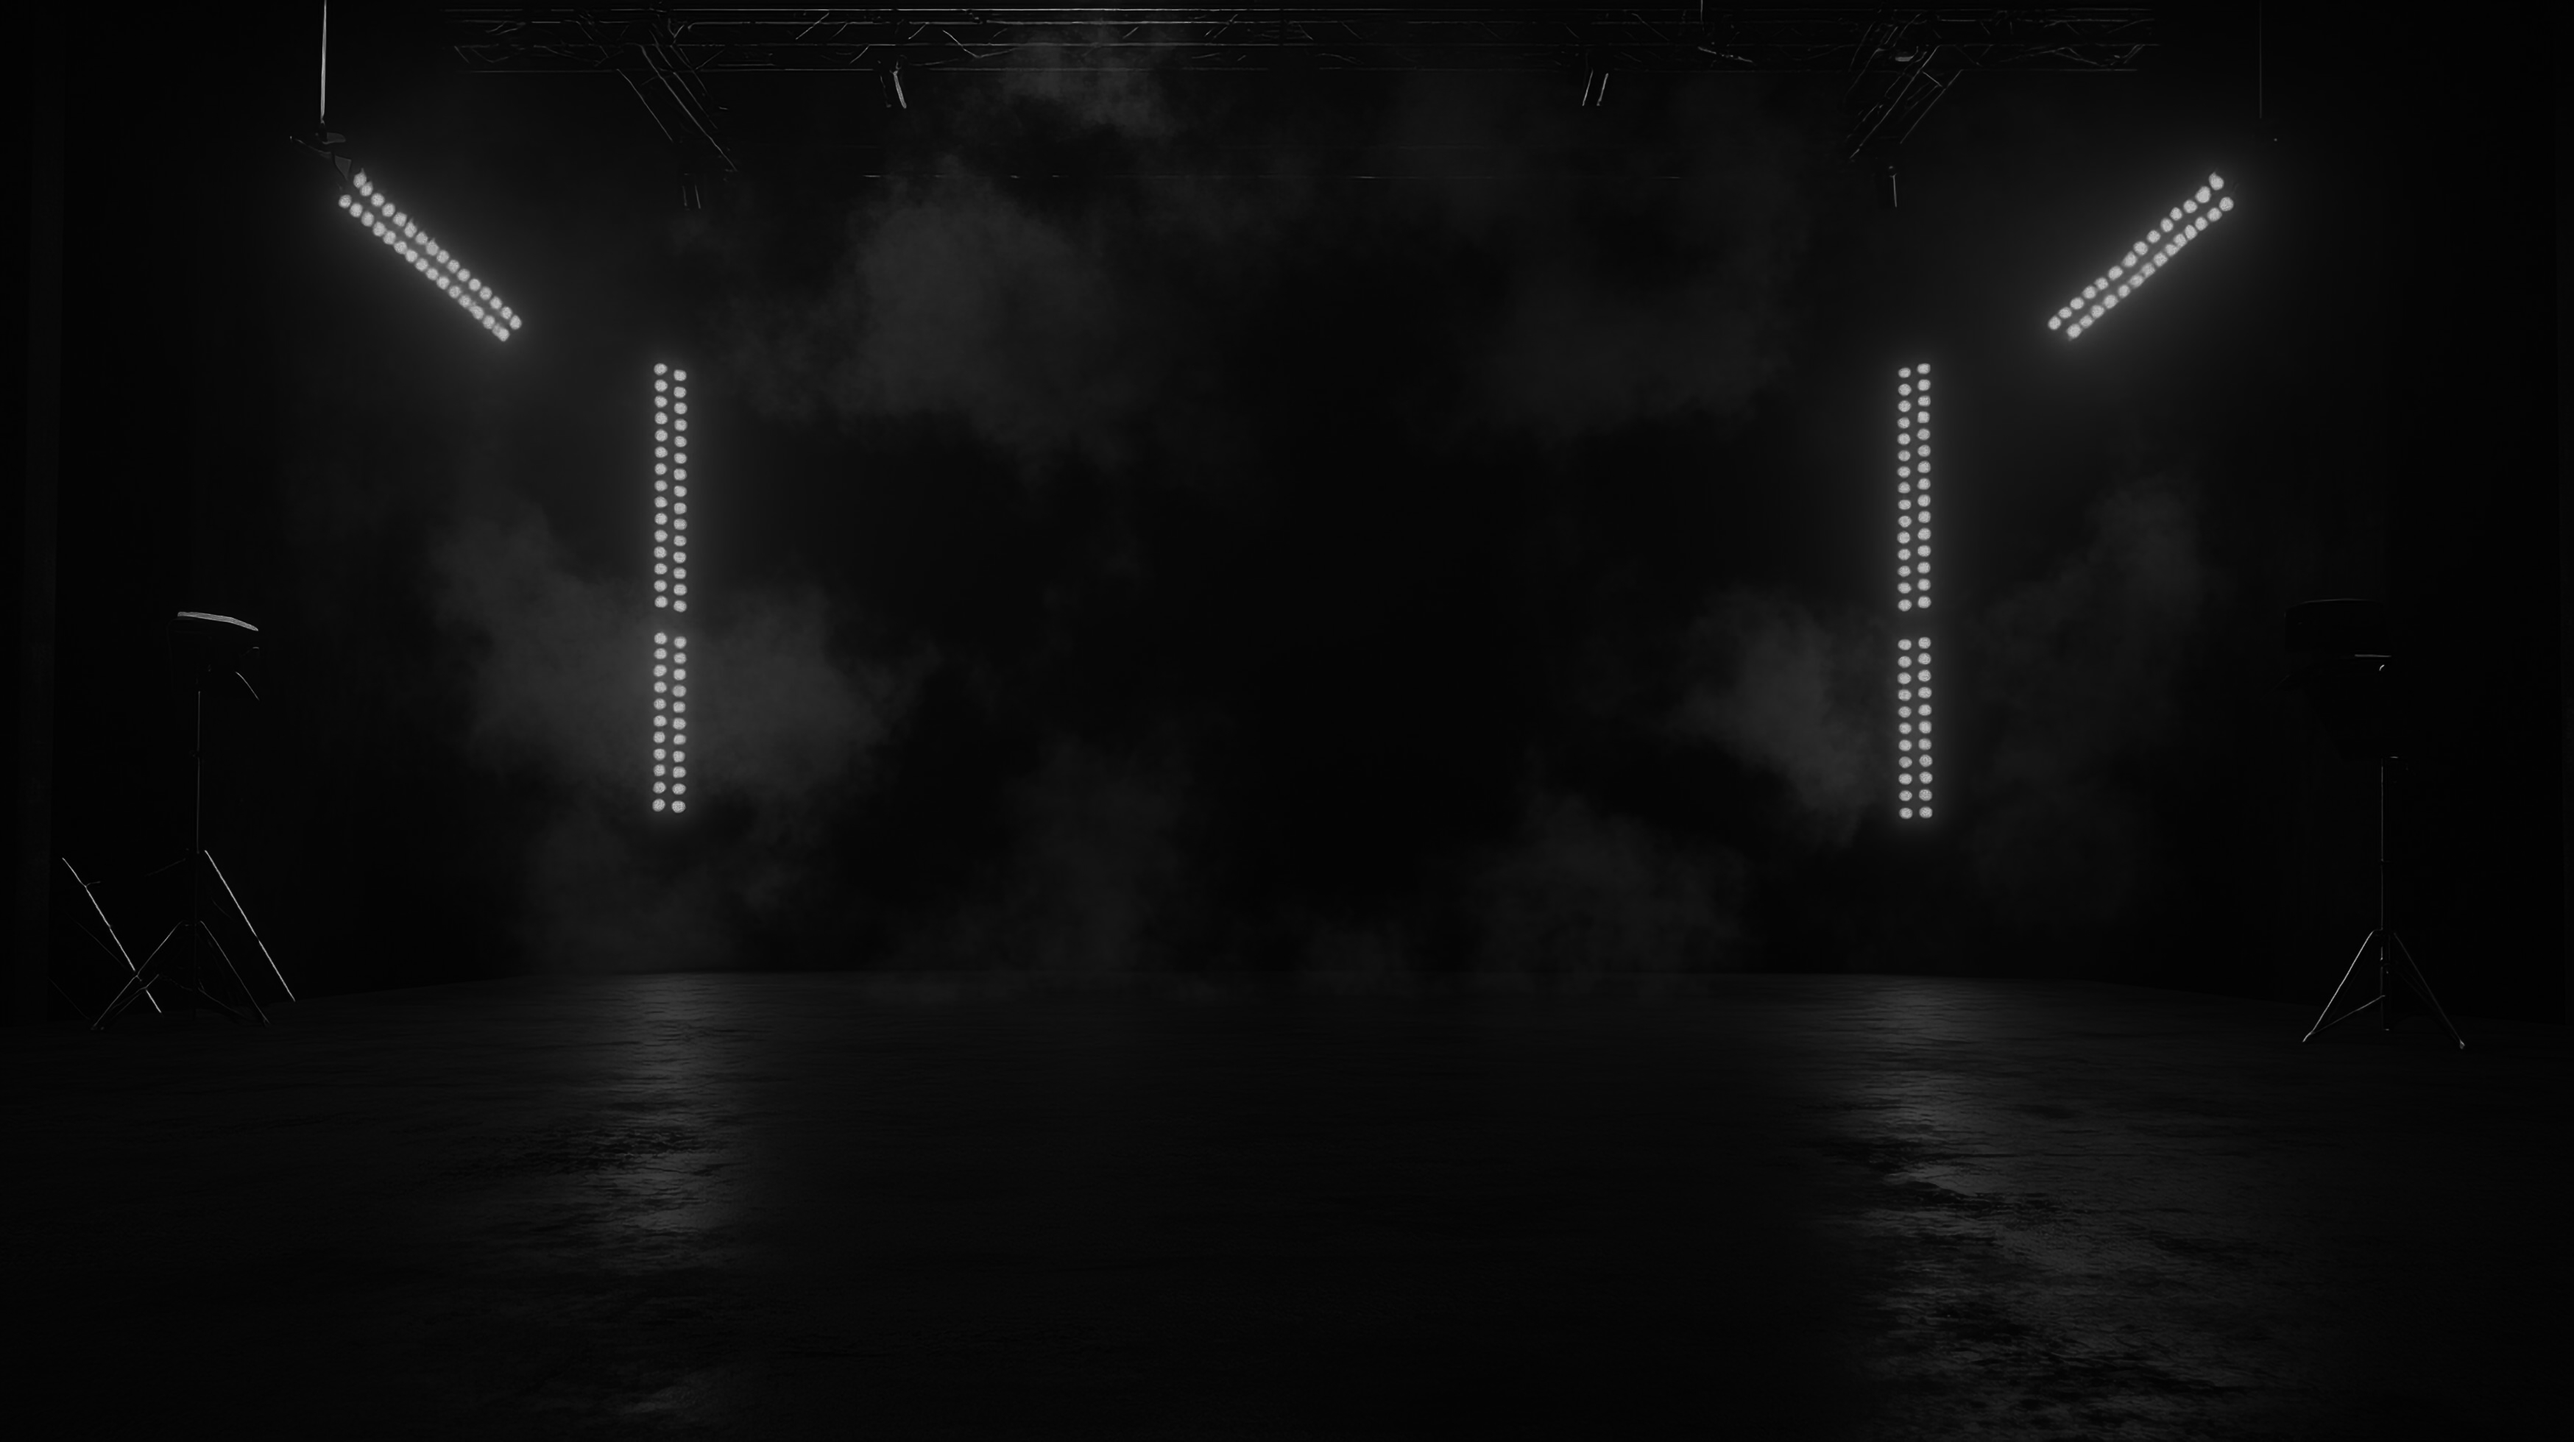
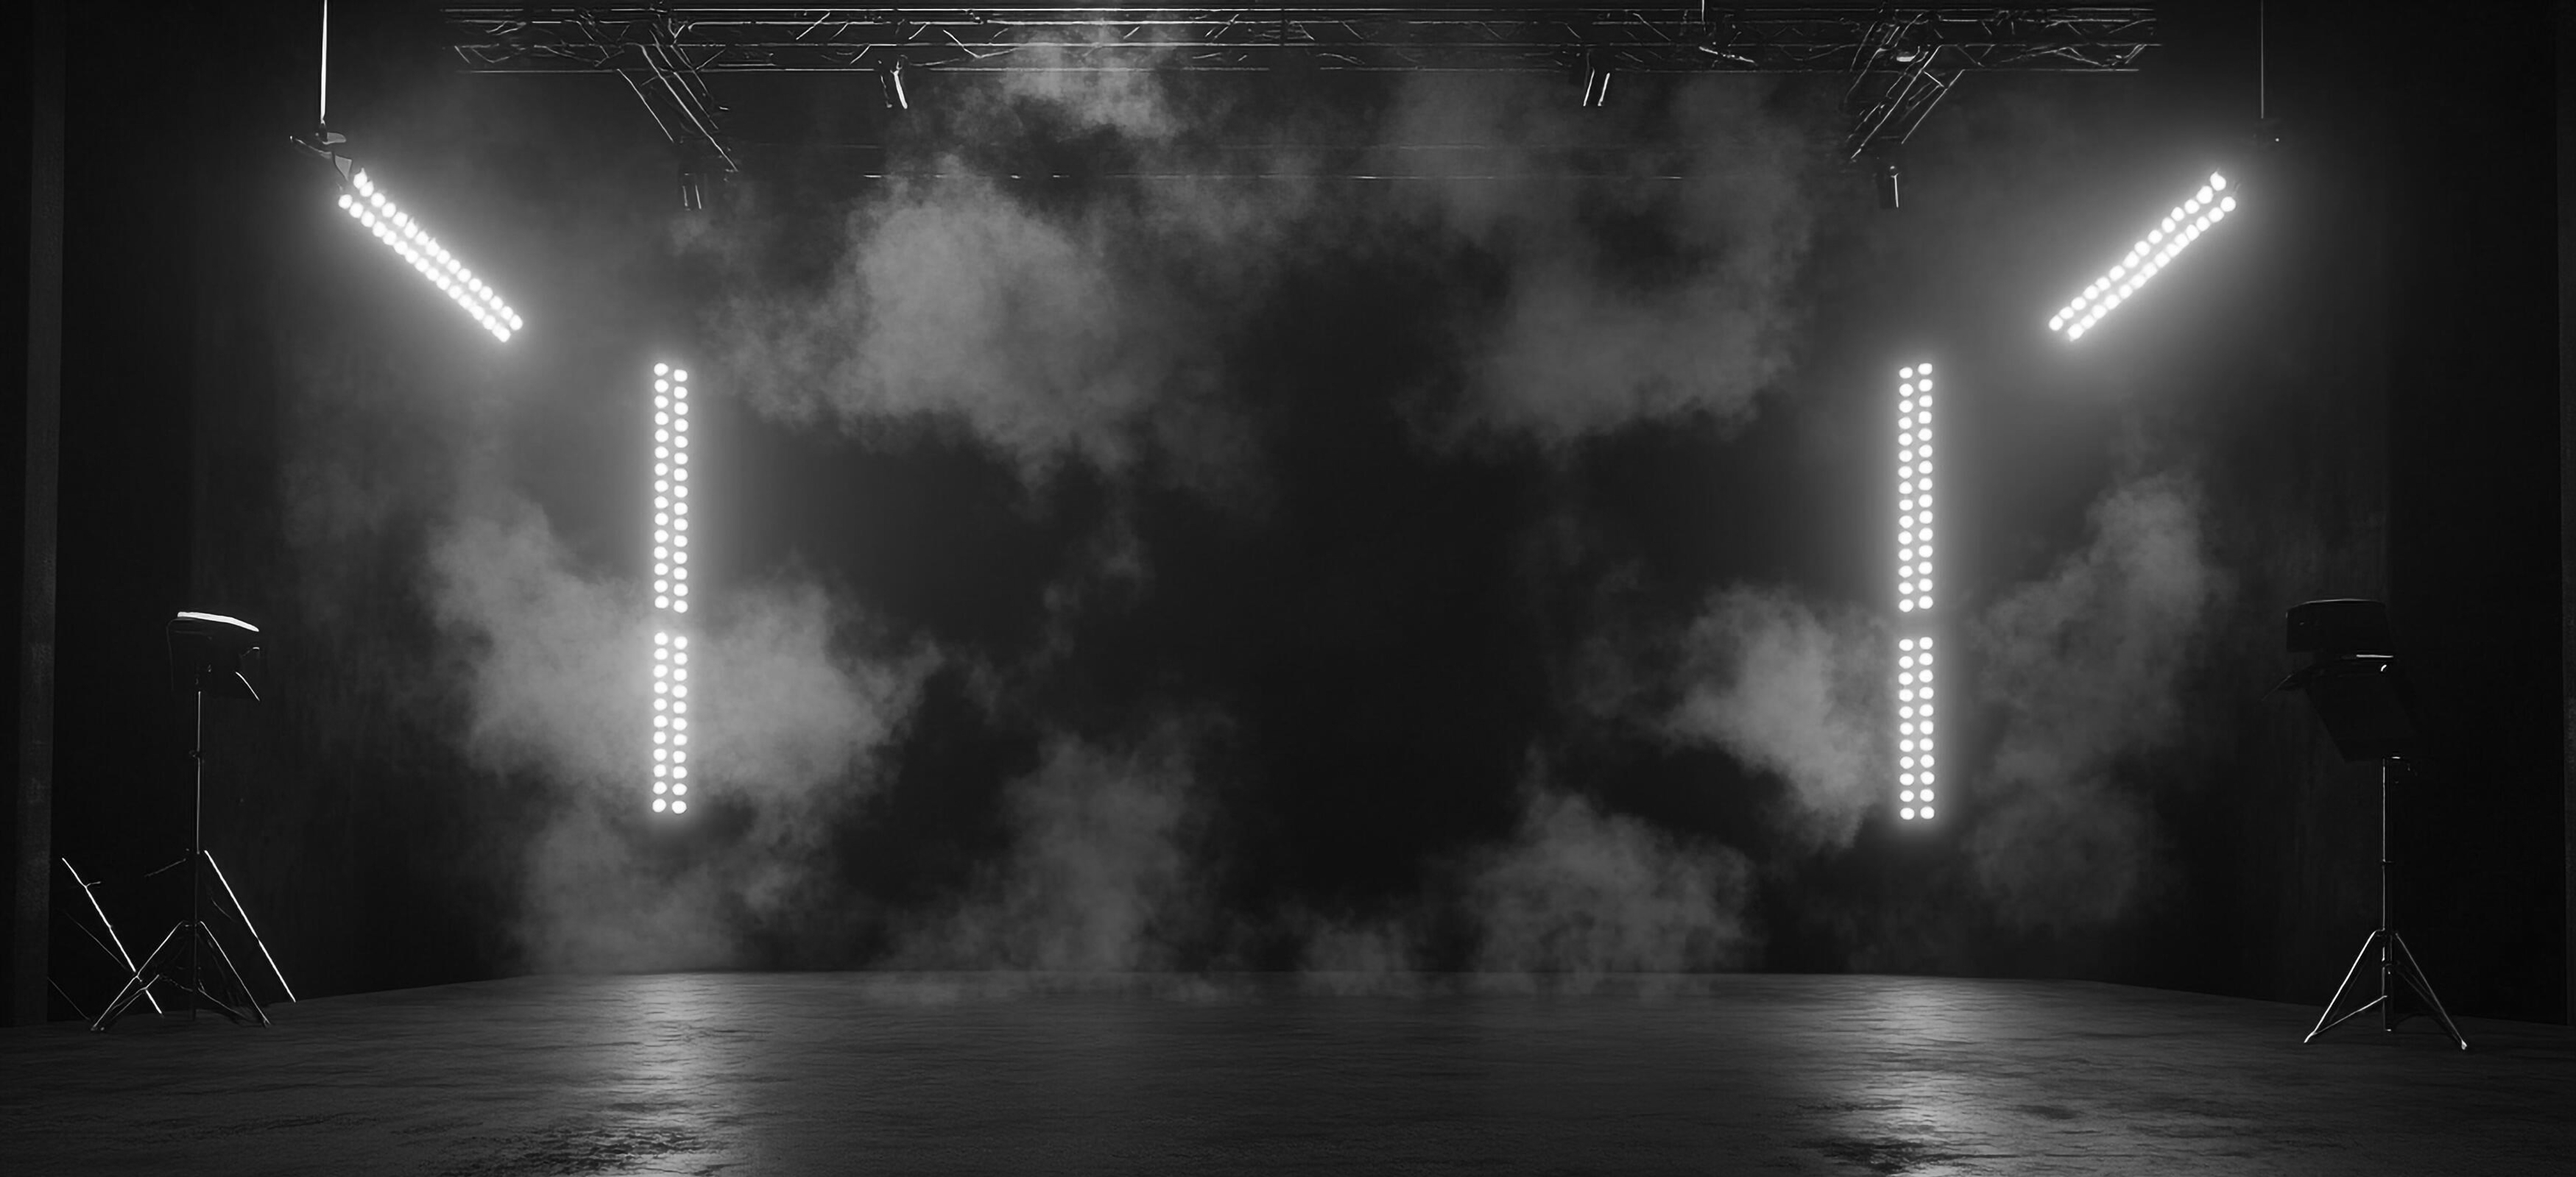
Modifying the text, descriptions, and other website content

diff --git a/components/About.tsx b/components/About.tsx
@@ -18,27 +18,27 @@ const TRACKS: Track[] = [
   {
     title: 'О нас',
     description:
-      'Мы собираемся в лучших локациях города, чтобы разделить живой звук, изысканный ужин и атмосферу абсолютного доверия. Здесь каждый гость — не случайный человек. Мы в ответе за тех, кого пригласили.',
+      'RockSession — круг единомышленников, для которых рок стал частью жизни. Мы встречаемся, чтобы разделить живой звук, искренние разговоры и чувство общности.',
   },
   {
     title: 'Премиум',
     description:
-      'Каждая встреча клуба — это закрытый формат с продуманной программой, где сервис, кухня и звук работают на один результат — ваше впечатление.',
+      'Каждая встреча — закрытое событие с безупречно продуманной программой. Свет, звук и сервис работают на то, чтобы впечатление осталось с вами надолго.',
   },
   {
-    title: 'Преимущества',
+    title: 'Формат',
     description:
-      'Живой звук без фонограмм, камерная аудитория и уют лучших ресторанов города. Никаких случайных людей — только гости по списку.',
+      'Живое исполнение без фонограмм, камерная аудитория и площадки, выбранные с особым вкусом. Никаких случайных лиц — только те, кого ждут.',
   },
   {
     title: 'Настроение',
     description:
-      'Мы создаём атмосферу, в которую хочется возвращаться: свет, музыка и люди складываются в один вечер, который хочется переслушать.',
+      'Атмосфера, в которую хочется возвращаться. Свет, музыка и люди создают вечер, который хочется пережить снова.',
   },
   {
-    title: 'Качество',
+    title: 'Звук',
     description:
-      'Профессиональные музыканты, отборные локации и внимание к каждой детали — от звука до сервировки. Для нас качество — не опция, а стандарт.',
+      'Профессиональные музыканты, безупречный звук и внимание к деталям. Всё продумано до мелочей — от первой ноты до финального аккорда.',
   },
 ];
 
@@ -240,7 +240,7 @@ export default function About() {
 const ABOUT_CSS = `
   .rsc-about {
     background: #060606;
-    padding: 110px 24px 130px;
+    padding: 110px 24px 50px;
     opacity: 0;
     transform: translateY(36px);
     transition: opacity 0.8s ease, transform 0.8s cubic-bezier(0.22, 0.8, 0.3, 1);

diff --git a/components/Partners.tsx b/components/Partners.tsx
@@ -186,20 +186,16 @@ export default function Partners() {
           {/* Заголовки блока */}
           <h2 className="rsc-partners__heading">Партнёры</h2>
           <p className="rsc-partners__subheading">
-            Давайте создавать историю вместе!
+            Пространство для сильных решений
           </p>
 
           {/* Текстовое описание */}
           <div className="rsc-partners__text">
             <p className="rsc-partners__lead">
-              Мы создаём события, о которых говорят. И открыты к сотрудничеству
-              с брендами, которые готовы мыслить шире стандартных интеграций.
+              RockSession открыт к сотрудничеству с брендами, которым близки ценности живого звука, культуры и внимания к деталям. Мы создаём закрытые вечера для избранной аудитории — и приглашаем вас стать частью этого пространства.
             </p>
             <p className="rsc-partners__body">
-              Хотите заявить о себе на самом ярком фестивале города? Мы
-              разработаем креативную концепцию под ваши задачи: от
-              нестандартных рекламных интеграций до самостоятельных событий
-              внутри фестиваля.
+              Предлагаем не стандартные интеграции, а продуманное партнёрство: от деликатного присутствия в атмосфере вечера до совместных проектов внутри клуба. Всё обсуждаем индивидуально.
             </p>
           </div>
 

diff --git a/components/Hero.tsx b/components/Hero.tsx
@@ -186,12 +186,11 @@ const HERO_CSS = `
     color: var(--accent, #00c3d0);
   }
 
-  /* Заголовок: уменьшен, начертание корректируется шрифтом Tablon,
-     запасной вариант сделан легче через font-weight и разрядку */
+  /* Заголовок */
   .rsc-hero__title {
     margin: 0 0 26px;
     font-family: var(--font-tablon), 'Arial', sans-serif;
-    font-size: clamp(40px, 6.5vw, 84px);
+    font-size: clamp(40px, 6.5vw, 72px);
     line-height: 1;
     font-weight: 600;
     letter-spacing: 0.03em;

diff --git a/components/Footer.tsx b/components/Footer.tsx
@@ -48,17 +48,7 @@ const SOCIAL_ICONS: Record<string, React.ReactNode> = {
     </svg>
   ),
   max: (
-    <svg viewBox="0 0 24 24" width="26" height="26" fill="currentColor" aria-hidden="true">
-      <circle cx="12" cy="12" r="10" />
-      <path
-        d="M7.5 9.5 12 14l4.5-4.5M7.5 13.5 12 18l4.5-4.5"
-        fill="none"
-        stroke="#060606"
-        strokeWidth="1.8"
-        strokeLinecap="round"
-        strokeLinejoin="round"
-      />
-    </svg>
+    <img src="/max.svg" alt="MAX" width={24} height={24} />
   ),
 };
 

diff --git a/components/Marquee.tsx b/components/Marquee.tsx
@@ -7,13 +7,14 @@
 
 /* Текст ленты */
 const ITEMS = [
-  'Ростов-на-Дону',
   'Живой звук',
-  'Рок',
-  'Без фонограмм',
-  'Блюз-рок',
   'Закрытый клуб',
-];
+  'Мировые хиты',
+  'Живые эмоции',
+  'Фотосъёмка',
+  'Проф. ведущий',
+  'Конкурсы и призы',
+];''
 
 /* Одна копия ленты:
    - элементы «◆  Текст» склеены двумя пробелами

diff --git a/components/JaggedDivider.tsx b/components/JaggedDivider.tsx
@@ -3,7 +3,7 @@
 // Вставляется автоматически между секциями на главной, в админке не управляется.
 
 /* Сколько вариантов линий лежит в public/dividers/ (1.svg, 2.svg, …) */
-const VARIANT_COUNT = 8;
+const VARIANT_COUNT = 3;
 
 export default function JaggedDivider({ index }: { index: number }) {
   /* Варианты чередуются по порядку: 1, 2, 3, 4, 5, 1, 2… */

diff --git a/components/Posters.tsx b/components/Posters.tsx
@@ -56,7 +56,7 @@ export default async function Posters() {
 const POSTERS_CSS = `
   .rsc-posters {
     background: #060606;
-    padding: 110px 24px 40px;
+    padding: 110px 24px 110px;
     overflow-x: clip; /* сдвиг билета при hover не расширяет страницу */
   }
 

diff --git a/components/Contacts.tsx b/components/Contacts.tsx
@@ -101,7 +101,7 @@ export default function Contacts() {
 const CONTACTS_CSS = `
   .rsc-contacts {
     background: #060606;
-    padding: 110px 24px 140px;
+    padding: 110px 24px 110px;
   }
 
   /* Каскадное появление при загрузке */

diff --git a/components/Gallery.tsx b/components/Gallery.tsx
@@ -170,7 +170,7 @@ export default function Gallery() {
 const GALLERY_CSS = `
   .rsc-gallery {
     background: #060606;
-    padding: 110px 24px 120px;
+    padding: 110px 24px 70px;
     overflow-x: clip;
   }
 

diff --git a/app/(site)/page.tsx b/app/(site)/page.tsx
@@ -36,7 +36,7 @@ const BLOCK_COMPONENTS: Record<string, React.ReactNode> = {
   posters: (
     <>
       <Posters />
-      <PastEvents />
+      {/* <PastEvents /> */}
     </>
   ),
   partners: <Partners />,
